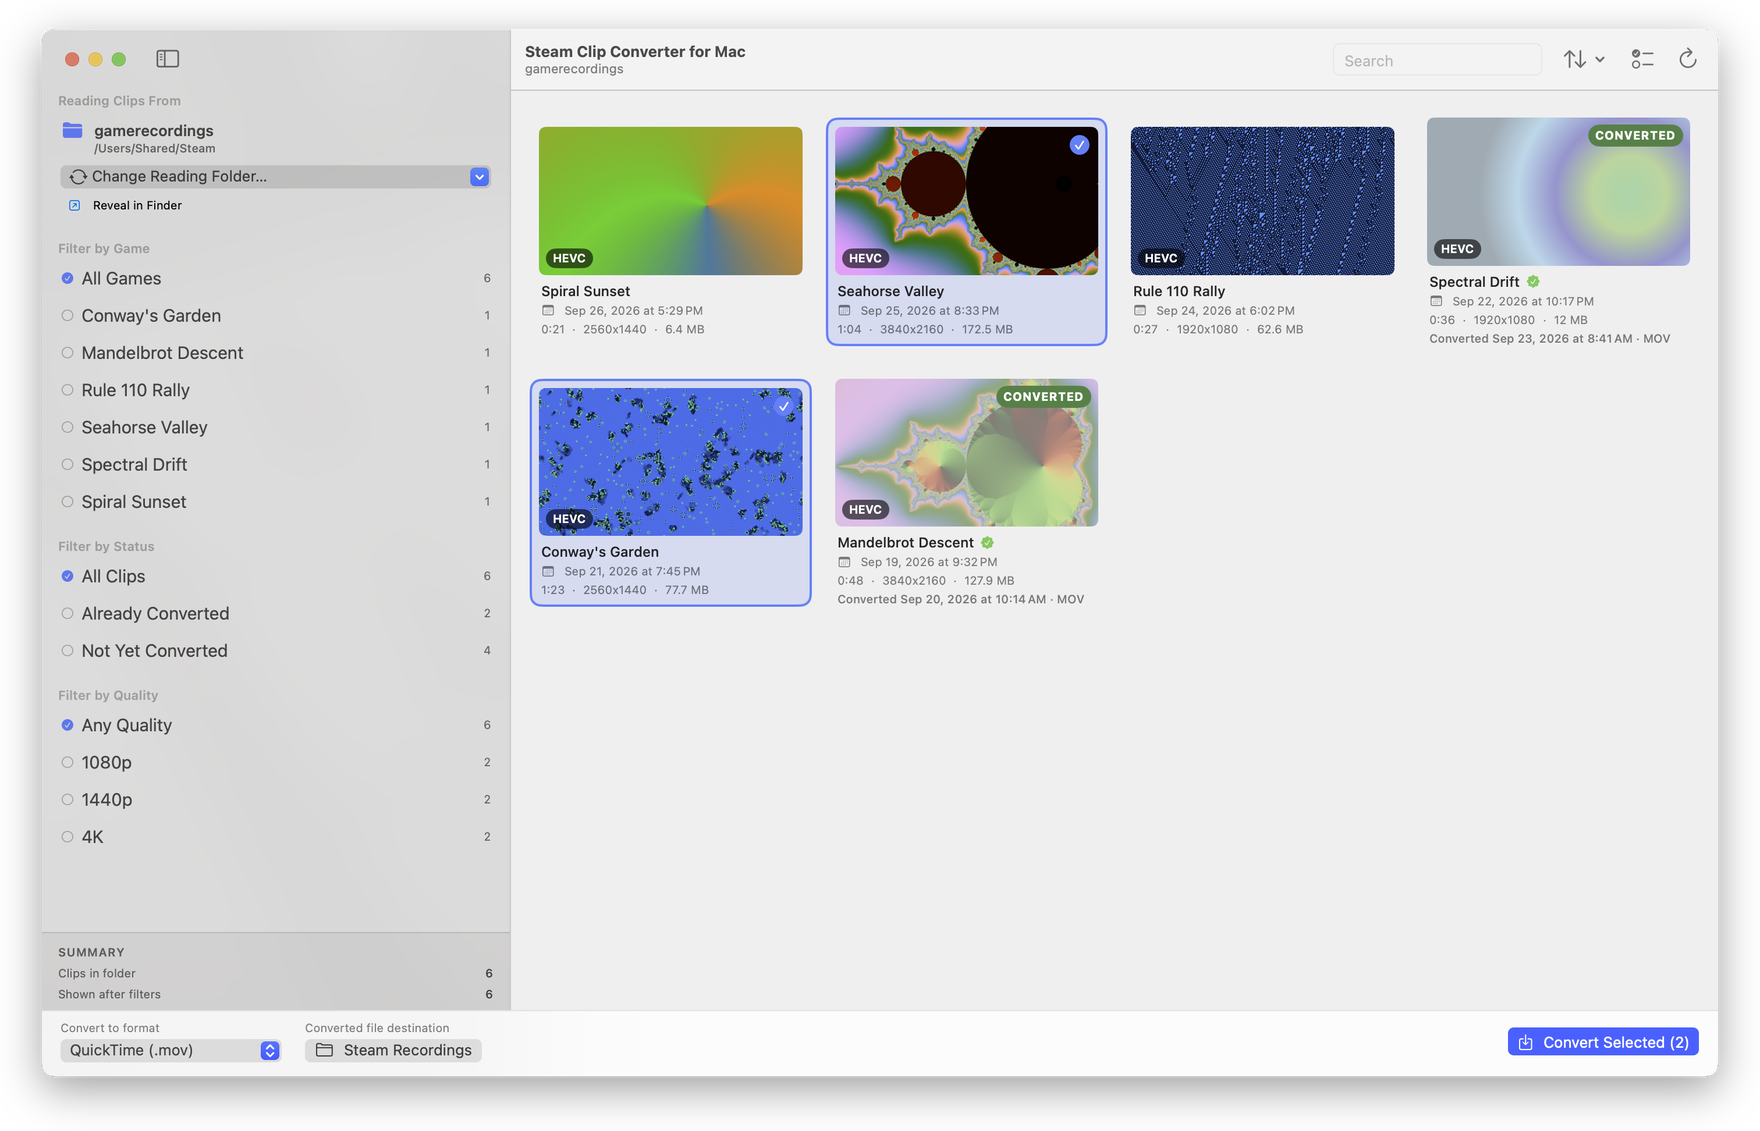
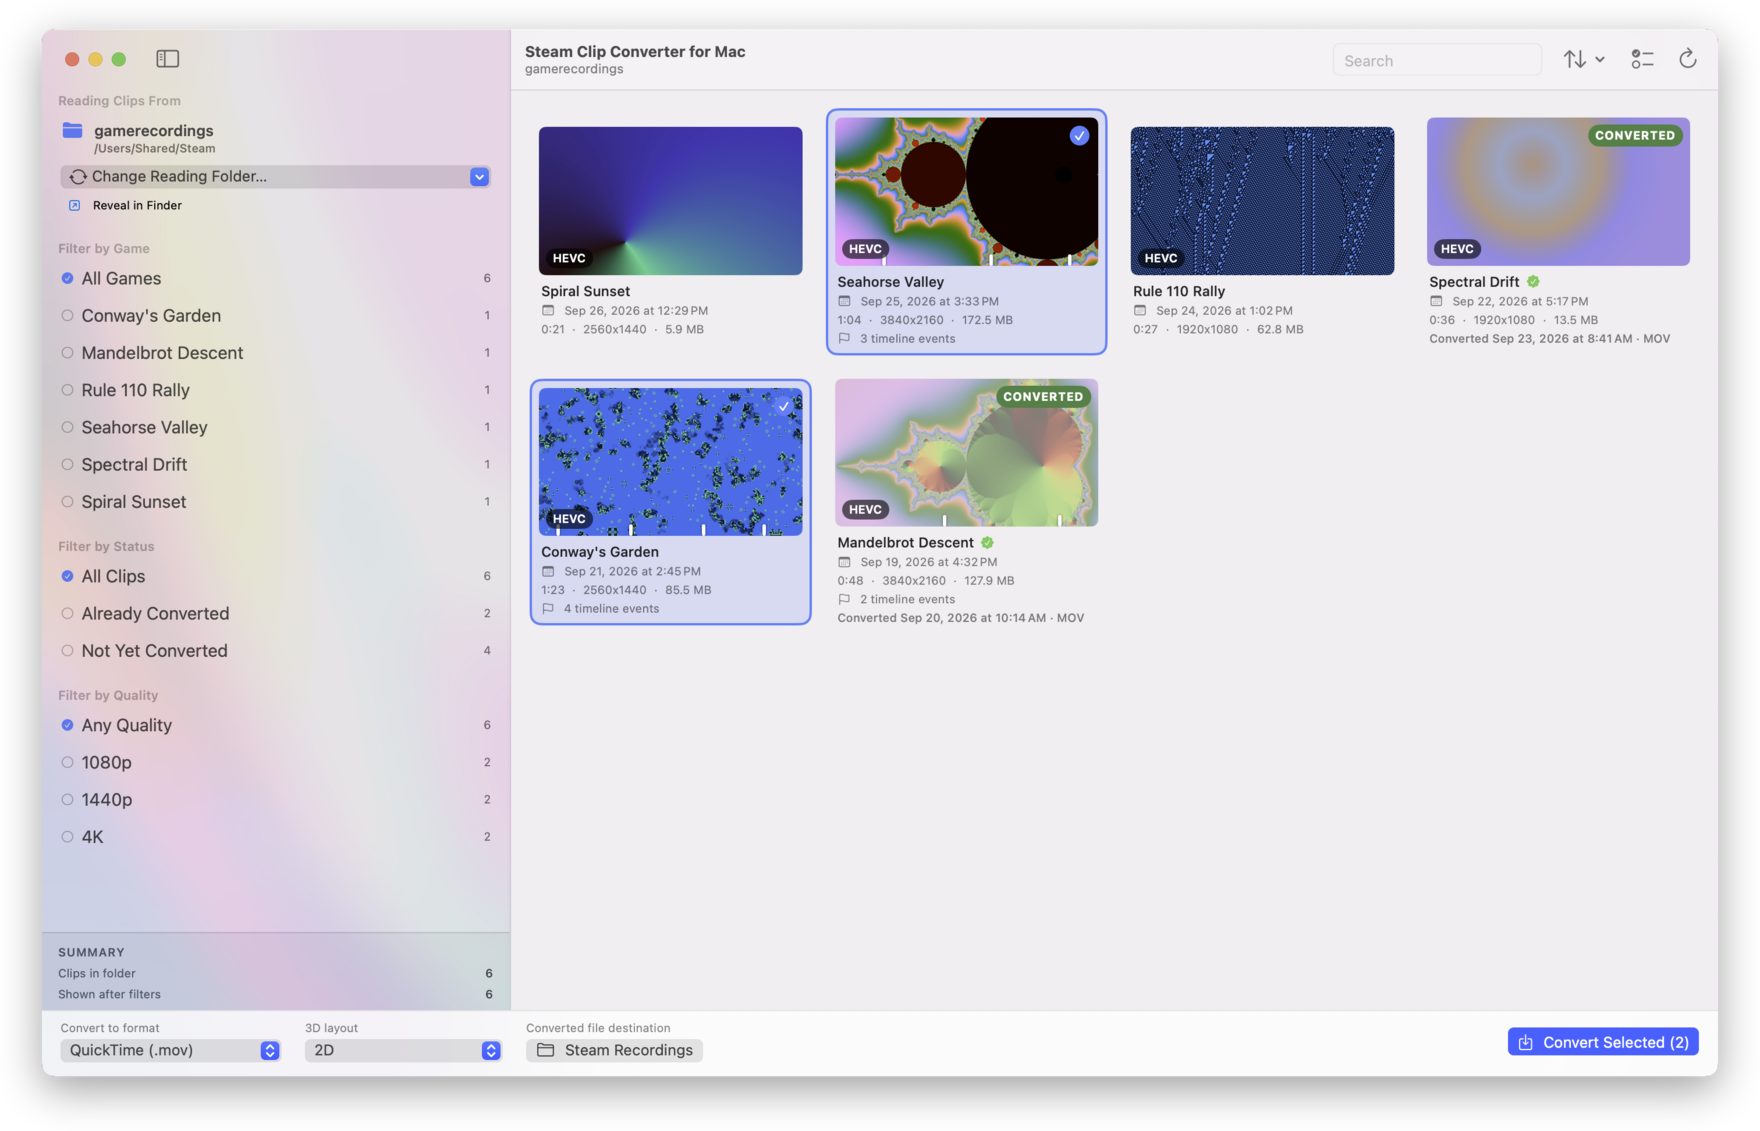
Refresh the README screenshot and social preview (#9)
* Give the demo library Steam timelines

make-demo.sh now also writes timelines/<id>.json and gamerecording.pb
for three of the six clips, so a fresh README screenshot shows event
ticks and the "timeline events" line that came with 1.1.0.

* Refresh the README screenshot and social preview

The new shot shows the 3D layout picker and timeline-event ticks on the
demo clips. Times are now real local time, since the app reads Steam's
folder names as UTC.

* Keep make-demo.sh away from a real recording library

It writes its own gamerecording.pb, which would drop every real session
from Steam's index, so it now fills only a new or empty folder.

* Fail closed in make-demo.sh's library guard

An unreadable folder used to look empty, because set -e ignores a failed
command substitution inside a test. The index is also now created
exclusively, so one that appears mid-run is never replaced.

* Create make-demo.sh's timeline files exclusively too

---------

diff --git a/design/screenshots/README.md b/design/screenshots/README.md
@@ -16,7 +16,13 @@ username in it. These tools regenerate both images the same way.
 Six clips laid out exactly like Steam's (`video/bg_<appid>_<date>_<time>/` with
 `session.mpd`, `init-stream*.m4s`, `chunk-stream*.m4s`), with HEVC tagged `hev1`
 and AAC audio. The visuals are ffmpeg test sources: fractals, Game of Life,
-Rule 110 and gradients. Needs ffmpeg with `hevc_videotoolbox`.
+Rule 110 and gradients. Needs ffmpeg with `hevc_videotoolbox`. It writes its own
+`gamerecording.pb`, so it only fills a new or empty folder: delete an old demo
+library before rebuilding it.
+
+Three of the clips also get a Steam timeline (`timelines/<id>.json`, indexed
+by `gamerecording.pb`), so their cards show event ticks and a "timeline
+events" line.
 
 ## 2. App state
 
